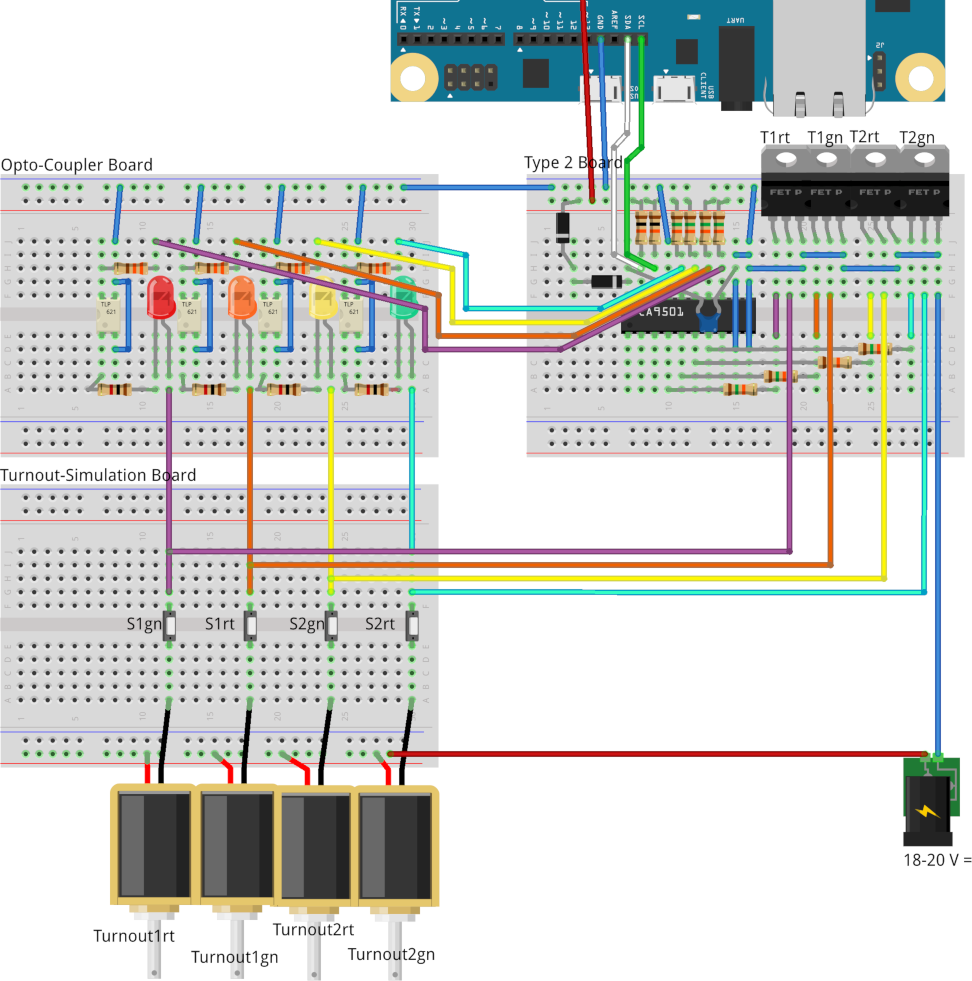
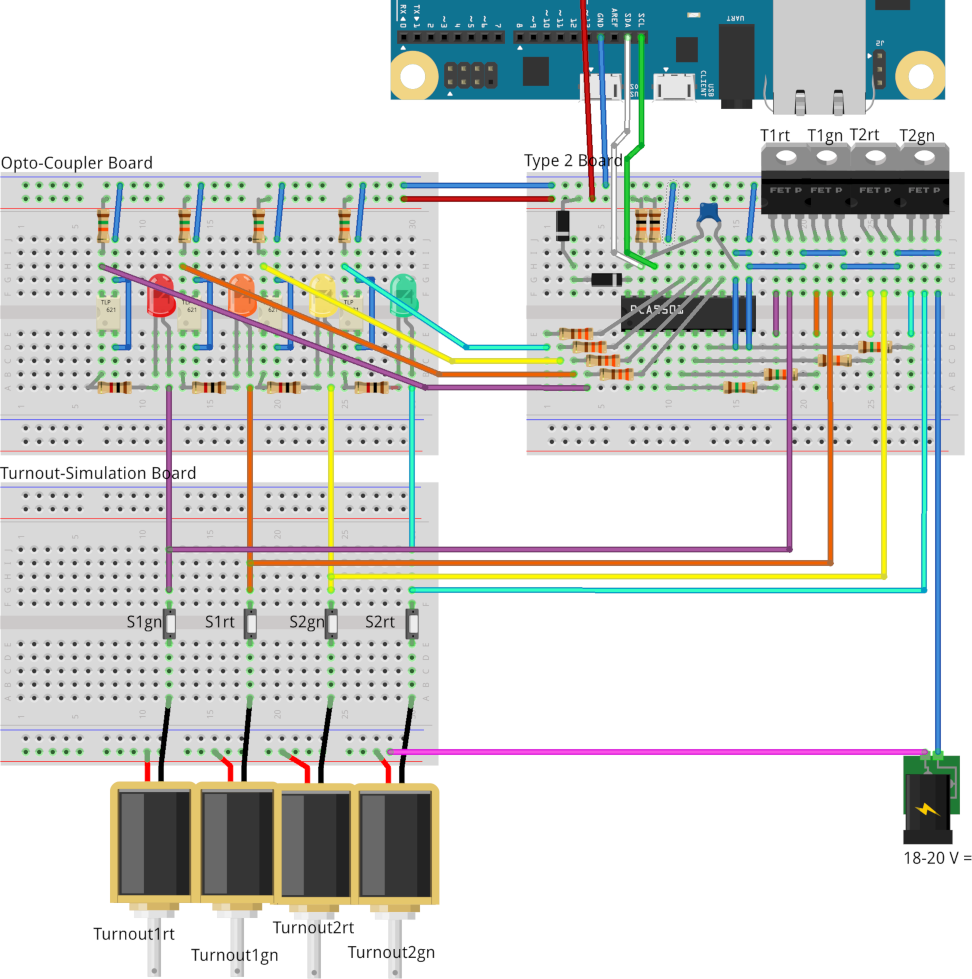
adjust doc

diff --git a/docs/breadboard_controller/README.md b/docs/breadboard_controller/README.md
@@ -1,16 +1,19 @@
 ## Using breadboards to get in touch
+
 Playing around with breadboards is very nice. It reduces the need of soldering to a minimum or zero (when using pinout boards for terminals).
-To startup quickly there are some breadboard schematics in the documentation folders. So buy some breadboards and startup prototyping your model railroad.
+To startup quickly there are some breadboard schematics in the documentation folders. So buy some breadboards and startup prototyping your model railroad. Some examples can be found in folder "docs/breadboard_controller".
+
+#### Notes for all example breadboards
+
+The board named "Turnout-Simulation Board" is just to show the basic internal wiring of a magnetic turnout drive and is not needed in reality.
+
+Address pins A0-A5 are "H" by internal pull-up resistors. Feel free to add wires from pins 1, 2, 3, 9, 11, 12 to GND for adjust the I2C address to your needs.
 
 **Attention:** Protect your devices by removing the main power plug (18-20V=) during startup and before shutdown. Disregard may lead to destruction of your devices, especially your magnetic coils.
 
-#### Example "type2_2turnout_4optocouplers"
-This operates 2 turnouts with active feedback to controller using the inputs. Two boards are required, a basic "Type 2" board and an additional breadboard for wiring opto-couplers. The third board is just to show the basic internal wiring of a magnetic turnout drive. The plan show the principle, but make not much sense without an additional "Type 2" board for at least one key to switch the "Turnout1". "Turnout2" is connected to state of "Turnout1" by using the feedback "S1rt" and will follow the position of "Turnout1" automatically.
->The LED's can be also used as signal (red/green).
-Address pins A0-A5 are "H" by internal pull-up resistors. Feel free to add wires from pins 1, 2, 3, 9, 11, 12 to GND for adjust the I2C address to your needs.
-
 ## Comparison I2C and proprietary hardware
 #### I2C
+
 Advantage
 * old and well known standard
 * with small improvements suitable for long range and high speed (fast mode ... ultra fast mode)
@@ -21,6 +24,7 @@ Disadvantages
 * board must be developed or at least hardware must be soldered on a prototype board
 
 #### Proprietary hardware
+
 Advantage
 * stable, well tested
 * compatible with each other and following the common standards

diff --git a/docs/breadboard_controller/type2_2turnout_4keys/type2_2turnout_4keys.md b/docs/breadboard_controller/type2_2turnout_4keys/type2_2turnout_4keys.md
@@ -1,0 +1,10 @@
+## Example "type2_2turnout_4keys"
+
+#### General
+This operates 2 turnouts controlled by 2 keys. Two boards are required, a basic "Type 2" board and an additional breadboard for wiring the keys. The plan connects the "Turnout1" to the switch "K1rt", which should be a real switch. When using a button you will determine that pressed and not pressed state will directly affect the position of the turnout. "Turnout2" is connected to a button "K2gn" in toggle mode. This means the turnout will change the position at each press of the button. 
+
+#### Mod: remove LED's
+The 4 LED's are used as an optical feedback and are not really needed for operation. When removing an LED replace LED and the 150 Ohm current limiting resistor by an 10 kOhm ... 15 kOhm resistor as pull up to improve stability.
+
+#### Mod: Connect turnouts together
+It is possible to switch one turnout by the state of another one. In the given example plan just change the line `"Connect": "K1rt"` to `"Connect": "Turnout2"`.

diff --git a/docs/breadboard_controller/type2_2turnout_4optocouplers/type2_2turnout_4optocouplers.md b/docs/breadboard_controller/type2_2turnout_4optocouplers/type2_2turnout_4optocouplers.md
@@ -1,0 +1,3 @@
+## Example "type2_2turnout_4optocouplers"
+This operates 2 turnouts with active feedback to controller using the inputs. Two boards are required, a basic "Type 2" board and an additional breadboard for wiring opto-couplers. The plan show the principle, but make not much sense without an additional "Type 2" board for at least one key to switch the "Turnout1". "Turnout2" is connected to state of "Turnout1" by using the feedback "S1rt". So, a simple test would be changing the position of "Turnout1" by hand and the "Turnout2" will follow the position of "Turnout1" automatically.
+>The LED's can be also used as signal (red/green).
